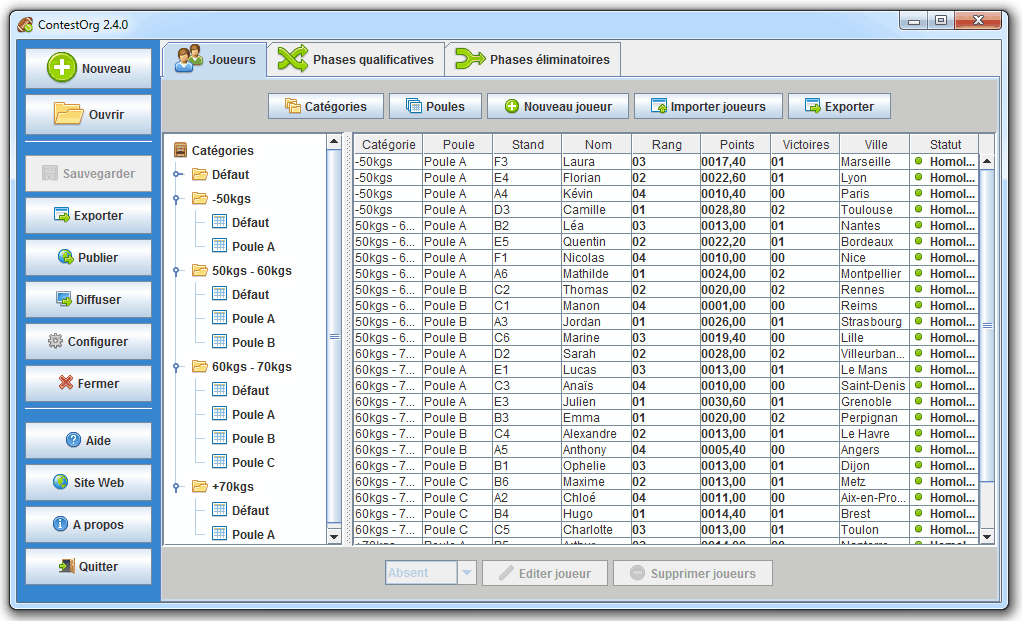
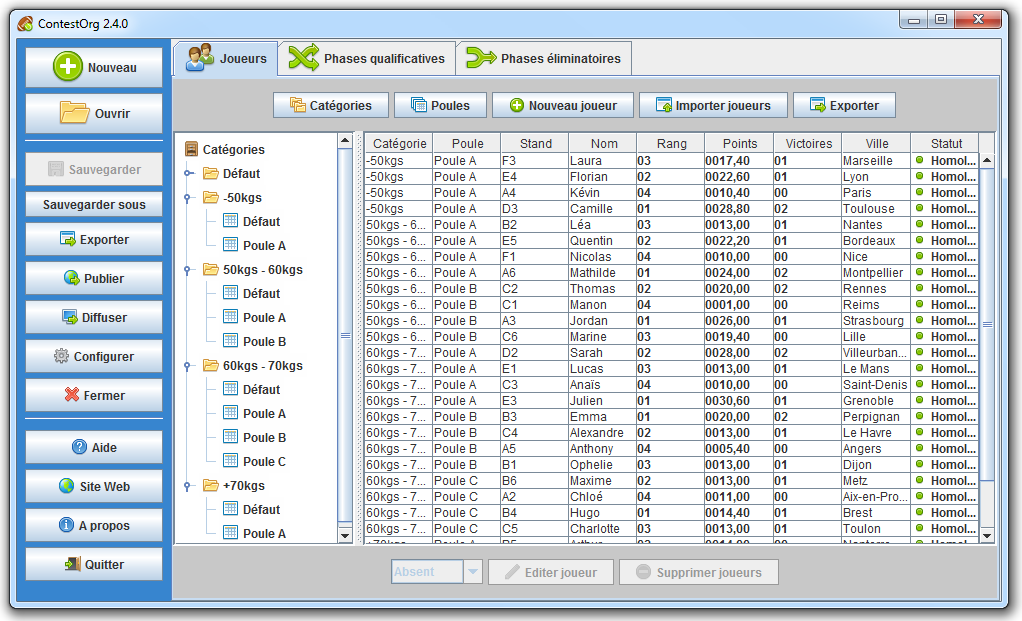
Issue #125 : Sauvegarder sous

diff --git a/trunk/application/src/org/contestorg/views/JFPrincipal.java b/trunk/application/src/org/contestorg/views/JFPrincipal.java
@@ -51,6 +51,8 @@ public class JFPrincipal extends JFrame implements ActionListener, WindowListene
 
 	/** Bouton "Sauvegarder" */
 	private JButton jb_sauvegarder;
+	/** Bouton "Sauvegarder sous" */
+	private JButton jb_sauvegarder_sous;
 	/** Bouton "Exporter" */
 	private JButton jb_exporter;
 	/** Bouton "Publier" */
@@ -106,6 +108,7 @@ public class JFPrincipal extends JFrame implements ActionListener, WindowListene
 		this.jb_nouveau = new JButton("Nouveau", new ImageIcon("img/farm/32x32/add.png"));
 		this.jb_ouvrir = new JButton("Ouvrir", new ImageIcon("img/farm/32x32/folder.png"));
 		this.jb_sauvegarder = new JButton("Sauvegarder", new ImageIcon("img/farm/16x16/disk.png"));
+		this.jb_sauvegarder_sous = new JButton("Sauvegarder sous");
 		this.jb_exporter = new JButton("Exporter", new ImageIcon("img/farm/16x16/application_go.png"));
 		this.jb_publier = new JButton("Publier", new ImageIcon("img/farm/16x16/world_go.png"));
 		this.jb_diffuser = new JButton("Diffuser", new ImageIcon("img/farm/16x16/monitor_go.png"));
@@ -119,6 +122,7 @@ public class JFPrincipal extends JFrame implements ActionListener, WindowListene
 		this.jb_nouveau.setToolTipText("Créer un nouveau concours");
 		this.jb_ouvrir.setToolTipText("Ouvrir un concours existant");
 		this.jb_sauvegarder.setToolTipText("Sauvegarder les modifications");
+		this.jb_sauvegarder_sous.setToolTipText("Sauvegarder le tournoi dans un autre fichier");
 		this.jb_exporter.setToolTipText("Lancer des exportations prédéfinies");
 		this.jb_publier.setToolTipText("Lancer l'exportation choisie pour la publication");
 		this.jb_diffuser.setToolTipText("Démarrer des diffusions d'informations sur le réseau");
@@ -130,36 +134,38 @@ public class JFPrincipal extends JFrame implements ActionListener, WindowListene
 		this.jb_quitter.setToolTipText("Quitter le programme");
 
 		this.jb_sauvegarder.setEnabled(false);
+		this.jb_sauvegarder_sous.setEnabled(false);
 		this.jb_exporter.setEnabled(false);
 		this.jb_publier.setEnabled(false);
 		this.jb_diffuser.setEnabled(false);
 		this.jb_configurer.setEnabled(false);
 		this.jb_fermer.setEnabled(false);
 
-		this.addButton(jp_gauche, this.jb_nouveau);
-		this.addButton(jp_gauche, this.jb_ouvrir);
+		this.addButton(jp_gauche, this.jb_nouveau, true);
+		this.addButton(jp_gauche, this.jb_ouvrir, true);
 
 		JSeparator js_sep1 = new JSeparator();
 		js_sep1.setMaximumSize(new Dimension(280, 12));
 		jp_gauche.add(js_sep1);
 		jp_gauche.add(Box.createVerticalStrut(5));
 
-		this.addButton(jp_gauche, this.jb_sauvegarder);
-		this.addButton(jp_gauche, this.jb_exporter);
-		this.addButton(jp_gauche, this.jb_publier);
-		this.addButton(jp_gauche, this.jb_diffuser);
-		this.addButton(jp_gauche, this.jb_configurer);
-		this.addButton(jp_gauche, this.jb_fermer);
+		this.addButton(jp_gauche, this.jb_sauvegarder, true);
+		this.addButton(jp_gauche, this.jb_sauvegarder_sous, false);
+		this.addButton(jp_gauche, this.jb_exporter, true);
+		this.addButton(jp_gauche, this.jb_publier, true);
+		this.addButton(jp_gauche, this.jb_diffuser, true);
+		this.addButton(jp_gauche, this.jb_configurer, true);
+		this.addButton(jp_gauche, this.jb_fermer, true);
 
 		JSeparator js_sep2 = new JSeparator();
 		js_sep2.setMaximumSize(new Dimension(280, 12));
 		jp_gauche.add(js_sep2);
 		jp_gauche.add(Box.createVerticalStrut(5));
 
-		this.addButton(jp_gauche, this.jb_aide);
-		this.addButton(jp_gauche, this.jb_web);
-		this.addButton(jp_gauche, this.jb_apropos);
-		this.addButton(jp_gauche, this.jb_quitter);
+		this.addButton(jp_gauche, this.jb_aide, true);
+		this.addButton(jp_gauche, this.jb_web, true);
+		this.addButton(jp_gauche, this.jb_apropos, true);
+		this.addButton(jp_gauche, this.jb_quitter, true);
 
 		// Panel à onglets
 		JPanel jp_participants = new JPPrincipalParticipants(this);
@@ -177,6 +183,7 @@ public class JFPrincipal extends JFrame implements ActionListener, WindowListene
 		this.jb_nouveau.addActionListener(this);
 		this.jb_ouvrir.addActionListener(this);
 		this.jb_sauvegarder.addActionListener(this);
+		this.jb_sauvegarder_sous.addActionListener(this);
 		this.jb_exporter.addActionListener(this);
 		this.jb_publier.addActionListener(this);
 		this.jb_diffuser.addActionListener(this);
@@ -195,10 +202,16 @@ public class JFPrincipal extends JFrame implements ActionListener, WindowListene
 	 * Ajouter un bouton au panneau
 	 * @param panel panel du panneau
 	 * @param button boutton
+	 * @param resizeHeight redimensionner le bouton ?
 	 */
-	private void addButton (JPanel panel, JButton button) {
+	private void addButton (JPanel panel, JButton button, boolean resizeHeight) {
 		button.setAlignmentX(Component.CENTER_ALIGNMENT);
-		button.setMaximumSize(new Dimension(280, 40));
+		Dimension maxSize = button.getMaximumSize();
+		maxSize.width = 280;
+		if(resizeHeight) {
+				maxSize.height = 40;
+		}
+		button.setMaximumSize(maxSize);
 		panel.add(button);
 		panel.add(Box.createVerticalStrut(5));
 	}
@@ -245,6 +258,8 @@ public class JFPrincipal extends JFrame implements ActionListener, WindowListene
 			}
 		} else if (event.getSource() == this.jb_sauvegarder) {
 			ContestOrg.get().concoursSauvegarder();
+		} else if (event.getSource() == this.jb_sauvegarder_sous) {
+			ContestOrg.get().concoursSauvegarderSous();
 		} else if (event.getSource() == this.jb_exporter) {
 			JDExportations dialog = new JDExportations(this);
 			dialog.setVisible(true);
@@ -313,6 +328,7 @@ public class JFPrincipal extends JFrame implements ActionListener, WindowListene
 	public void moodyChanged (IMoody moody) {
 		// Mettre à jour l'état de certains boutons
 		this.jb_sauvegarder.setEnabled(moody.is(ContestOrg.STATE_EDIT) && !moody.is(ContestOrg.STATE_SAVE));
+		this.jb_sauvegarder_sous.setEnabled(moody.is(ContestOrg.STATE_EDIT));
 		this.setTitle(!moody.is(ContestOrg.STATE_OPEN) || moody.is(ContestOrg.STATE_SAVE) ? this.titre : this.titre+" *");
 		this.jb_exporter.setEnabled(moody.is(ContestOrg.STATE_OPEN));
 		this.jb_publier.setEnabled(moody.is(ContestOrg.STATE_OPEN));

diff --git a/trunk/application/src/org/contestorg/controllers/ContestOrg.java b/trunk/application/src/org/contestorg/controllers/ContestOrg.java
@@ -522,6 +522,26 @@ public class ContestOrg extends MoodyAbstract implements IHistoryListener
 	}
 	
 	/**
+	 * Sauvegarder le concours sous
+	 */
+	public void concoursSauvegarderSous() {
+		// Demander à l'utilisateur le chemin de sauvegarde
+		this.chemin = ViewHelper.sauvegarder(this.jf_general, "Sauvegarder le concours sous", FiltreFichier.ext_co, FiltreFichier.des_co);
+		
+		// Si un fichier a bien été donné
+		if (this.chemin != null) {
+			// Sauvegarder le concours
+			if(new PersistanceXML(chemin).save()) {
+				// Ajouter l'état sauvegardé
+				this.addState(STATE_SAVE);
+			} else {
+				// Message d'erreur
+				ViewHelper.derror(this.jf_general, "Une erreur est survenue lors de la sauvegarde du concours.");
+			}
+		}
+	}
+	
+	/**
 	 * Lancer la procédure de fermeture du concours
 	 */
 	public void concoursFermer() {
